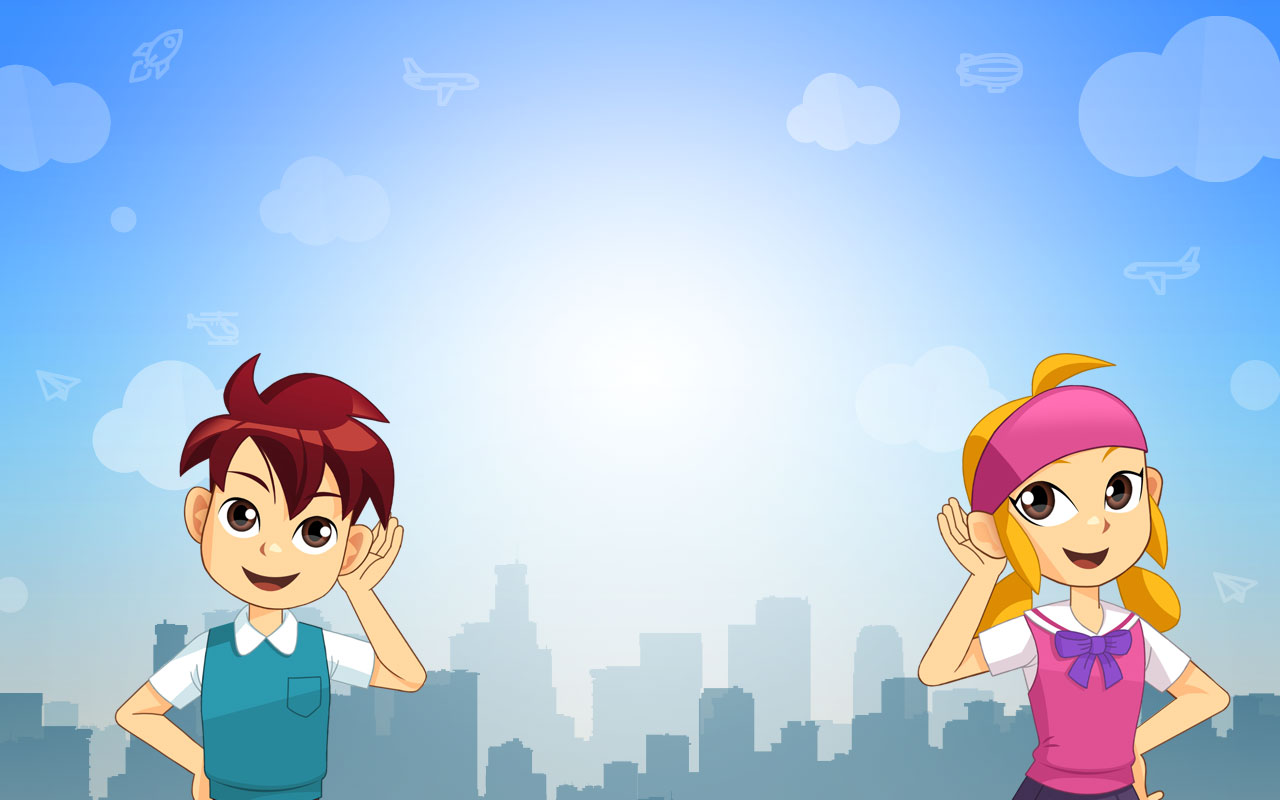
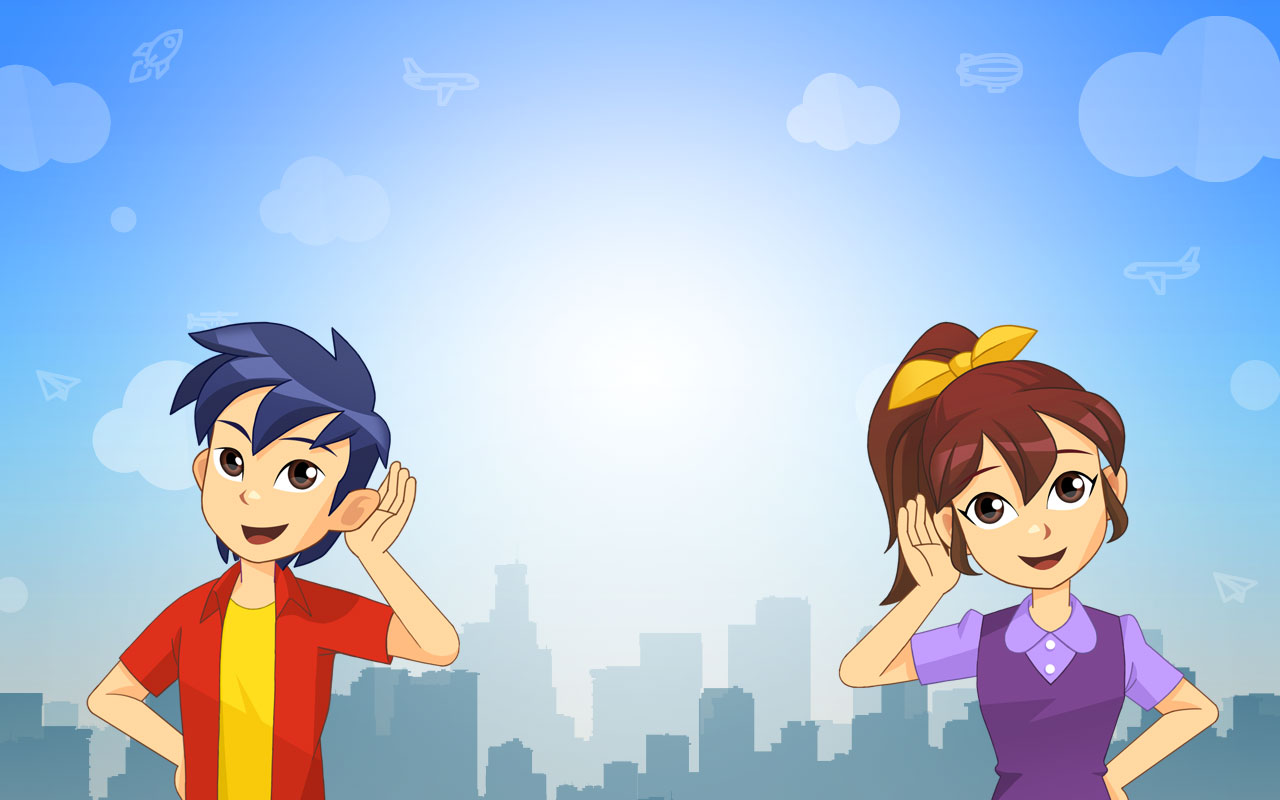
5-1 to-be

Changed region(s): [[0.6562, 0.4062, 0.9688, 1.0], [0.0625, 0.375, 0.375, 1.0]]

diff --git a/5-1/js/common.js b/5-1/js/common.js
@@ -697,7 +697,7 @@
 		speak: [
 			[
 				{
-					text: '안녕~ 나는 천재초등학교 4학년 1반 노을이라고 해! ',
+					text: '안녕? 나는 천재초등학교 5학년 1반 바다라고 해!',
 					voice: 'SSJ410108_01',
 					duration:6000,
 					animation: {
@@ -709,7 +709,7 @@
 					}
 				},
 				{
-					text: '만나서 반가워.',
+					text: '만나서 반가워 친구야!',
 					voice: 'SSJ410108_02',
 					duration:2500,
 					animation: {
@@ -723,31 +723,7 @@
 			],
 			[
 				{
-					text: '여기, 우리 지역을 나타낸 지도를 한번 가지고 와봤어.',
-					voice: 'SSJ410108_03',
-					duration:5200,
-					animation: {
-						type: 'c',
-						duration: 4500
-					},
-					endBack: function(){
-						win[namespace].askQuestion(win[namespace].speak[1][1]);
-					}
-				},
-				{
-					text: '지도에는 정말 다양한 정보들이 있네?',
-					voice: 'SSJ410108_04',
-					duration:4000,
-					animation: {
-						type: 'c',
-						duration: 3500
-					},
-					endBack: function(){
-						win[namespace].askQuestion(win[namespace].speak[1][2]);
-					}
-				},
-				{
-					text: '나랑 같이 하나하나 살펴보자!',
+					text: '나는 지금 특별한 곳으로 여행을 와 있어. 여기가 어디냐고?',
 					voice: 'SSJ410108_05',
 					duration:4000,
 					animation: {
@@ -758,24 +734,24 @@
 						win[namespace].progressStatus('ing', 0);
 						// 여기서 박스 나타남
 						win[namespace].askQuestion(
-							win[namespace].speak[1][3],
+							win[namespace].speak[1][1],
 							{
 								type: 'word',
 								answer: [
-									['ㅂㅇㅍ'],
-									['방위판', '방위표', '방위편'],
-									['방위표']
+									['ㄷㄷ'],
+									['도덕', '등대', '독도'],
+									['독도']
 								],
 								resultBack: {
-									right: function(){win[namespace].askQuestion(win[namespace].speak[1][5])},
-									wrong: function(){win[namespace].askQuestion(win[namespace].speak[1][4])}
+									right: function(){win[namespace].askQuestion(win[namespace].speak[1][3])},
+									wrong: function(){win[namespace].askQuestion(win[namespace].speak[1][2])}
 								}
 							}
 						);
 					}
 				},
 				{
-					text: '음...지도에서 방위를 나타내주는 역할을 하는 걸<br>뭐라고 부르더라?',
+					text: '우리나라 영토의 동쪽 끝에 있는 섬이야.',
 					voice: 'SSJ410108_06',
 					duration:6000,
 					animation: {
@@ -783,11 +759,11 @@
 						duration:5800
 					},
 					endBack: function(){
-						win[namespace].askQuestion(win[namespace].speak[1][4]);
+						win[namespace].askQuestion(win[namespace].speak[1][2]);
 					}
 				},
 				{
-					text: '지도에서 방위를 나타내주는 역할을 하는 것을<br>방위표라고 해.',
+					text: '우리나라 영토의 동쪽 끝에는 독도가 있지.',
 					voice: 'SSJ410108_07',
 					duration:5800,
 					animation: {
@@ -795,11 +771,11 @@
 						duration:5100
 					},
 					endBack: function(){
-						win[namespace].askQuestion(win[namespace].speak[1][5]);
+						win[namespace].askQuestion(win[namespace].speak[1][3]);
 					}
 				},
 				{
-					text: '그래. 방위표를 이용하면 사람이나 건물이 향한<br>방향에 관계없이 위치를 나타낼 수 있어.',
+					text: '독도는 경상북도 울릉군에 속해 있는 섬이야. ',
 					voice: 'SSJ410108_08',
 					duration:8000,
 					animation: {
@@ -813,19 +789,7 @@
 			],
 			[
 				{
-					text: '지도에는 여러 가지 기호도 사용되고 있다는 것 알고 있지?',
-					voice: 'SSJ410108_09',
-					duration:5000,
-					animation: {
-						type: 'c',
-						duration:4500
-					},
-					endBack: function(){
-						win[namespace].askQuestion(win[namespace].speak[2][1]);
-					}
-				},
-				{
-					text: '그런데, 지도마다 쓰이는 기호가 다르고,<br>모든 기호를 외울 수도 없을 텐데…',
+					text: '우리나라는 경상북도, 전라남도, 강원도 등으로 나뉘는 것 알고 있지?',
 					voice: 'SSJ410108_10',
 					duration:7000,
 					animation: {
@@ -836,24 +800,24 @@
 						// 여기서 박스 나타남
 						win[namespace].progressStatus('ing', 1);
 						win[namespace].askQuestion(
-							win[namespace].speak[2][2],
+							win[namespace].speak[2][1],
 							{
 								type: 'word',
 								answer: [
-									['ㅂㄹ'],
-									['범례', '분류', '법령'],
-									['범례']
+									['ㅎㅈ'],
+									['효자', '행정', '현장'],
+									['행정']
 								],
 								resultBack: {
-									right: function(){win[namespace].askQuestion(win[namespace].speak[2][4])},
-									wrong: function(){win[namespace].askQuestion(win[namespace].speak[2][3])}
+									right: function(){win[namespace].askQuestion(win[namespace].speak[2][3])},
+									wrong: function(){win[namespace].askQuestion(win[namespace].speak[2][2])}
 								}
 							}
 						);
 					}
 				},
 				{
-					text: '그래서 지도에는 기호의 뜻이 무엇인지<br>나타내주는 역할을 하는 것이 있대. 그걸 뭐라고 부를까?',
+					text: '이렇게 나라를 효율적으로 관리하려고 나눈 지역을 무슨 구역이라고 하더라?',
 					voice: 'SSJ410108_11',
 					duration:9000,
 					animation: {
@@ -865,7 +829,7 @@
 					}
 				},
 				{
-					text: '지도에 쓰인 기호와 그 뜻을 나타내주는 역할을 하는 것을 범례라고 해.',
+					text: '우리나라는 나라를 효율적으로 관리하기 위해 행정 구역을 나눴어.',
 					voice: 'SSJ410108_12',
 					duration:6000,
 					animation: {
@@ -877,7 +841,7 @@
 					}
 				},
 				{
-					text: '범례 덕분에 각 기호의 뜻을 확인할 수가 있네!',
+					text: '좋아! 다음에는 강원도로 여행을 떠나 볼래!',
 					voice: 'SSJ410108_13',
 					duration:4300,
 					animation: {
@@ -891,7 +855,19 @@
 			],
 			[
 				{
-					text: '지도는 땅의 실제 모습을 줄여서 나타내고 있어.',
+					text: '짜잔~ 이곳은 강원도에 있는 동강이라고 해.',
+					voice: 'SSJ410108_13',
+					duration:4300,
+					animation: {
+						type: 'f', // 여기 f임
+						duration:3500
+					},
+					endBack: function(){
+						win[namespace].askQuestion(win[namespace].speak[3][1]);
+					}
+				},
+				{
+					text: '하천 사이에 있는 산이 꼭 한반도의 땅의 생김새를 닮았지?',
 					voice: 'SSJ410108_14',
 					duration: 5000,
 					animation: {
@@ -901,24 +877,24 @@
 					endBack: function(){
 						win[namespace].progressStatus('ing', 2);
 						win[namespace].askQuestion(
-							win[namespace].speak[3][1], 
+							win[namespace].speak[3][2], 
 							{
 								type: 'word',
 								answer: [
-									['ㅊㅊ'],
-									['추천', '초청', '축척'],
-									['축척']
+									['ㅈㅎ'],
+									['지형', '재해', '지하'],
+									['지형']
 								],
 								resultBack: {
-									right: function(){win[namespace].askQuestion(win[namespace].speak[3][3])},
-									wrong: function(){win[namespace].askQuestion(win[namespace].speak[3][2])}
+									right: function(){win[namespace].askQuestion(win[namespace].speak[3][4])},
+									wrong: function(){win[namespace].askQuestion(win[namespace].speak[3][3])}
 								}
 							}
 						);
 					}
 				},
 				{
-					text: '지도에서 실제 거리를 줄인 정도를 뭐라고 부르더라?',
+					text: '이러한 산지와 하천 등 땅의 생김새를 무엇이라고 하는지 알고 있니?',
 					voice: 'SSJ410108_15',
 					duration: 4000,
 					animation: {
@@ -926,11 +902,11 @@
 						duration:4000
 					},
 					endBack: function(){
-						win[namespace].askQuestion(win[namespace].speak[3][2]);
+						win[namespace].askQuestion(win[namespace].speak[3][3]);
 					}
 				},
 				{
-					text: '지도에서 실제 거리를 줄인 정도를 축척이라고 해.',
+					text: '땅의 생김새는 지형이라고 말해.',
 					voice: 'SSJ410108_16',
 					duration: 5000,
 					animation: {
@@ -938,11 +914,11 @@
 						duration:5000
 					},
 					endBack: function(){
-						win[namespace].askQuestion(win[namespace].speak[3][3]);
+						win[namespace].askQuestion(win[namespace].speak[3][4]);
 					}
 				},
 				{
-					text: '축척에 따라 지도의 자세한 정도가 달라지게 되지. ',
+					text: '우리나라에서는 산지, 하천, 평야, 해안, 섬 등과 같은 다양한 지형을 볼 수 있지.',
 					voice: 'SSJ410108_17',
 					duration: 5000,
 					animation: {
@@ -956,7 +932,19 @@
 			],
 			[
 				{
-					text: '지도에서 땅의 높낮이를 표현할 수 있다는 것도 알고 있니?',
+					text: '앗! 그런데 오늘은 날씨가 너무 덥고 습하네.',
+					voice: 'SSJ410108_17',
+					duration: 5000,
+					animation: {
+						type: 'f',
+						duration:4800
+					},
+					endBack: function(){
+						win[namespace].askQuestion(win[namespace].speak[4][1]);
+					}
+				},
+				{
+					text: '하늘이 흐리고 바람이 강한 걸 보니 곧 많은 비가 내릴 것 같아.',
 					voice: 'SSJ410108_18',
 					duration: 5000,
 					animation: {
@@ -966,24 +954,24 @@
 					endBack: function(){
 						win[namespace].progressStatus('ing', 3);
 						win[namespace].askQuestion(
-							win[namespace].speak[4][1],
+							win[namespace].speak[4][2],
 							{
 								type: 'word',
 								answer: [
-									['ㄷㄱㅅ'],
-									['등고선', '단계선', '등급선'],
-									['등고선']
+									['ㅌㅍ'],
+									['통풍', '테풍', '탕평'],
+									['테풍']
 								],
 								resultBack: {
-									right: function(){win[namespace].askQuestion(win[namespace].speak[4][3])},
-									wrong: function(){win[namespace].askQuestion(win[namespace].speak[4][2])}
+									right: function(){win[namespace].askQuestion(win[namespace].speak[4][4])},
+									wrong: function(){win[namespace].askQuestion(win[namespace].speak[4][3])}
 								}
 							}
 						);
 					}
 				},
 				{
-					text: '지도에서 높이가 같은 곳을 연결하여<br>땅의 높낮이를 나타낸 선을 무엇이라고 할까?',
+					text: '적도 부근에서 발생해 이동하는 열대 저기압 때문이라던데, 무엇인지 알고 있어?',
 					voice: 'SSJ410108_19',
 					duration: 7000,
 					animation: {
@@ -991,11 +979,11 @@
 						duration:7000
 					},
 					endBack: function(){
-						win[namespace].askQuestion(win[namespace].speak[4][2]);
+						win[namespace].askQuestion(win[namespace].speak[4][3]);
 					}
 				},
 				{
-					text: '지도에서 높이가 같은 곳을 연결하여<br>땅의 높낮이를 나타낸 선을 등고선이라고 해.',
+					text: '적도 부근에서 발생해 우리나라에 영향을 주는 열대 저기압은 태풍이야.',
 					voice: 'SSJ410108_20',
 					duration: 7300,
 					animation: {
@@ -1003,11 +991,11 @@
 						duration:7000
 					},
 					endBack: function(){
-						win[namespace].askQuestion(win[namespace].speak[4][3]);
+						win[namespace].askQuestion(win[namespace].speak[4][4]);
 					}
 				},
 				{
-					text: '지도에서는 땅의 높낮이를 등고선과 색깔로 나타내지. ',
+					text: '거센 태풍이 오기 전에 어서 집으로 돌아가야겠어!',
 					voice: 'SSJ410108_21',
 					duration: 5000,
 					animation: {
@@ -1015,26 +1003,12 @@
 						duration:4500
 					},
 					endBack: function(){
-						win[namespace].askQuestion(win[namespace].speak[4][4]);
-					}
-				},
-				{
-					text: '땅의 높이가 높을수록 색이 진해진다는 점 잊지 마~!',
-					voice: 'SSJ410108_22',
-					duration: 7000,
-					animation: {
-						type: 'f',
-						duration:6500
-					},
-					endBack: function(){
-						win[namespace].currentStep = 1;
-						// win[namespace].pageBtnsStatus('abled', 'next');
-						// win[namespace].pageBtnsStatus('show', 'next');
-						
-						window.speakUp.goStep(2);
+						win[namespace].askQuestion(win[namespace].speak[5][0]);
 					}
 				},
 			],
+
+			///////////////////////// [To-BE]
 			[
 				{
 					text: '이곳은 시장이네! 사람이 정말 많다.',

diff --git a/5-1/5-1.html b/5-1/5-1.html
@@ -18,6 +18,7 @@
 			
 			<img src="img/bg_main1.jpg" alt="" style="opacity:0; width:1px; height:1px; z-index:-1; position:absolute; overflow:hidden;">
 			<img src="img/bg_main2.jpg" alt="" style="opacity:0; width:1px; height:1px; z-index:-1; position:absolute; overflow:hidden;">
+			<img src="img/bg_main3.jpg" alt="" style="opacity:0; width:1px; height:1px; z-index:-1; position:absolute; overflow:hidden;">
 			<img src="img/ani/b.png" alt="" style="opacity:0; width:1px; height:1px; z-index:-1; position:absolute; overflow:hidden;">
 			<img src="img/ani/c.png" alt="" style="opacity:0; width:1px; height:1px; z-index:-1; position:absolute; overflow:hidden;">
 			<img src="img/ani/d.png" alt="" style="opacity:0; width:1px; height:1px; z-index:-1; position:absolute; overflow:hidden;">
